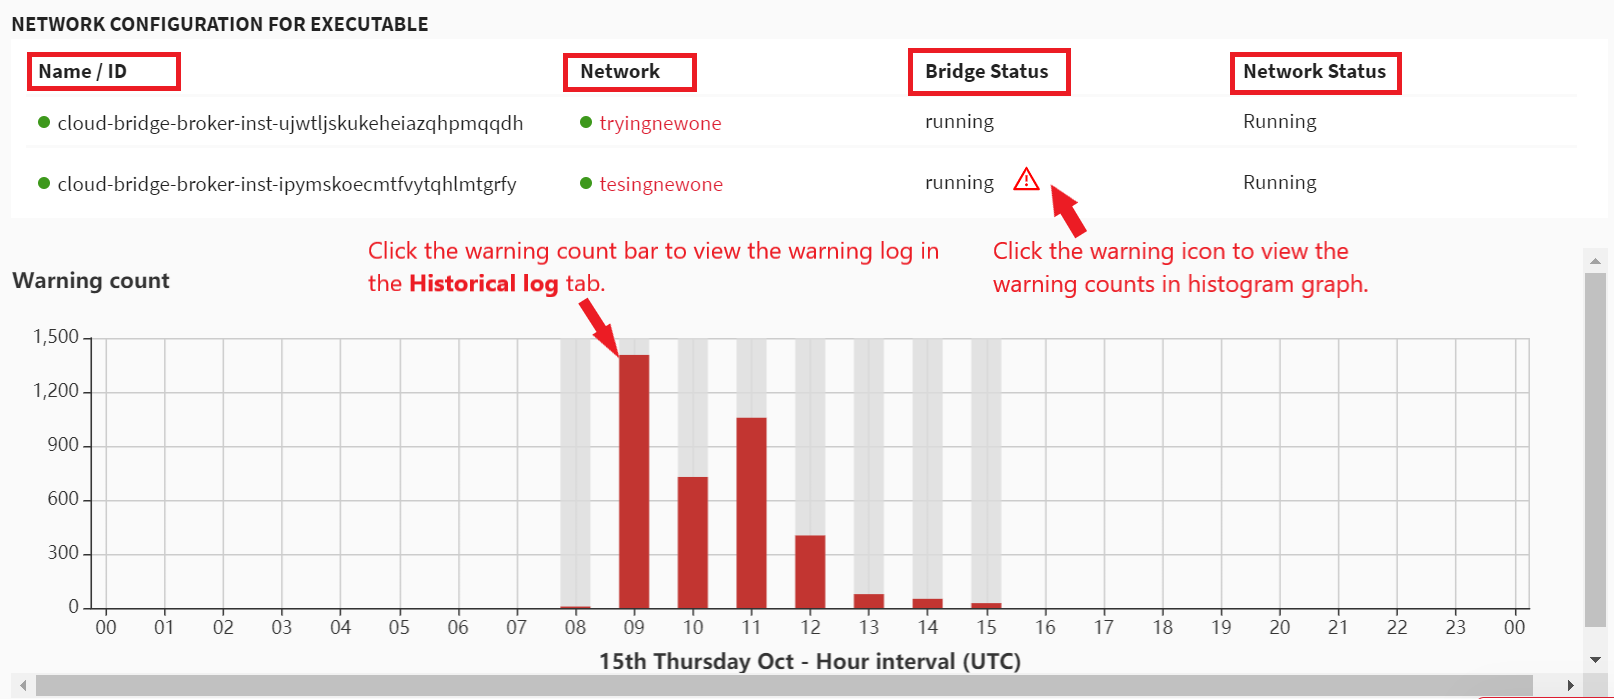
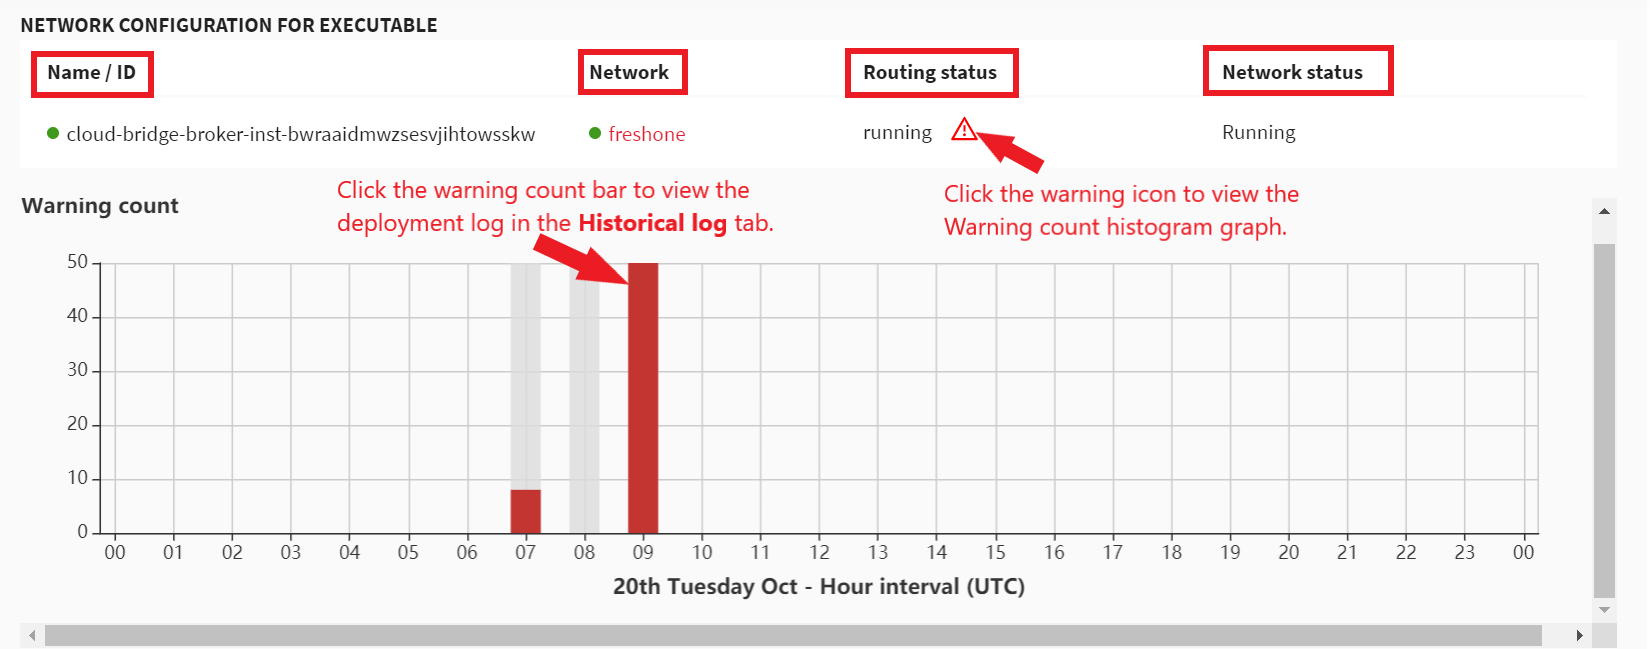
Comments from Amit are fixed

diff --git a/hugo/content/developer-guide/manage-software-cycle/deployments.md b/hugo/content/developer-guide/manage-software-cycle/deployments.md
@@ -100,11 +100,13 @@ and the recommendations you should take:
 | DEP_E161 | docker image not found for executables of components deployed on device | verify that the path of the docker image is valid |
 | DEP_E162 | Validation error. Cases include:<ul><li>Inconsistent values of ROS distro and CPU architecture variables for the device and package being provisioned.</li><li>rapyuta.io docker images not present on docker device.</li></ul> | <ul><li>Create package with appropriate values for ROS distro and CPU architecture variables.</li><li>Onboard the device again.</li></ul> |
 | DEP_E163 | application has stopped and exited unexpectedly, and crashes continuously | debug the application using the corresponding deployment logs |
-| DEP_E171 | same alias name is used by two different deployments under the same routed network. | change the alias name during deployment and ensure that there is no duplication of  alias name under the same routed network. For more information about alias, [click here.](/developer-guide/manage-software-cycle/communication-topologies/ros-support/#ros-environment-aliases-runtime-identity-assignment)</a> |
-| DEP_E172 | compress libraries used by the cloud bridge is missing. | re-onboard the device.</a> |
-| DEP_E173 | Underlying transport libraries used by the cloud bridge components  are missing. | re-onboard the device.</a> |
-| DEP_E174 | multiple components of a package under same routed network expose same ROS service. | do not add multiple deployments with the same ROS service endpoint under the same routed network.</a> |
-| DEP_E175 | python actionlib file is missing. | re-onboard the device.</a> |
+| DEP_E171 | network bridge encountered duplicate alias on the device. | change the alias name during deployment and ensure that there is no duplication of  alias name under the same routed network. For more information about alias, [click here.](/developer-guide/manage-software-cycle/communication-topologies/ros-support/#ros-environment-aliases-runtime-identity-assignment)</a> |
+| DEP_E172 | compression library required for the network bridge is missing on the device. | re-onboard the device.</a> |
+| DEP_E173 | transport libraries required for the network bridge is missing on the device. | re-onboard the device.</a> |
+| DEP_E174 | network bridge on the device encountered multiple ROS service origins. | do not add multiple deployments with the same ROS service endpoint under the same routed network.</a> |
+| DEP_E175 | python actionlib/msgs required for the network bridge is missing on the device. | re-onboard the device.</a> |
+| DEP_E176 | network bridge encountered duplicate alias on the cloud component. | re-onboard the device.</a> |
+| DEP_E177 | network bridge on the cloud component encountered multiple ROS service origins. | re-onboard the device.</a> |
 | DEP_E2xx | internal rapyuta.io error in the components deployed on cloud | report the issue together with the relevant details to the <a href="#" onclick="javascript:FreshWidget.show();">support team</a> |
 | DEP_E3xx | internal rapyuta.io error in the components deployed on a device | report the issue together with the relevant details to the <a href="#" onclick="javascript:FreshWidget.show();">support team</a> |
 | DEP_E4xx | internal rapyuta.io error | report the issue together with the relevant details to the <a href="#" onclick="javascript:FreshWidget.show();">support team</a> |
@@ -168,7 +170,7 @@ The following table displays the field description of the network configuration 
 | ------ | ----------- |
 | Name/ID | Displays a unique name or ID of the cloud bridge component that is generated for a ROS component. |
 | Network | Displays the associated routed network for the component. |
-| Bridge Status | Displays the following cloud bridge statuses of each component for a package. <ul><li>If the cloud bridge is running successfully, then the status becomes **running**.</li><li>If the cloud bridge is running successfully with warnings, then the status becomes **running** with a warning icon. You can click on the warning icon to view the histogram of the warning messages those occured in the last 24 hours. You can also view the historical logs by clicking the warning message count bar in the histogram graph. It takes you to the [hitorical log section](/developer-guide/tooling-automation/logging/deployment-logs/#stdout-logs). You can also view the [live logs](/developer-guide/tooling-automation/logging/deployment-logs/#indexed-logs) of the cloud bridge generated for the ROS components in a deployment.</li><li>If the cloud bridge is failed due to some error, then the status becomes **error**.</li></ul> |
+| Routing Status | Displays the following cloud bridge statuses of each component for a package. <ul><li>If the cloud bridge is running successfully, then the status becomes **running**.</li><li>If the cloud bridge is running successfully with warnings, then the status becomes **running** with a warning icon. You can click on the warning icon to view the histogram of the warning messages those occured in the last 24 hours. You can also view the historical logs by clicking the warning message count bar in the histogram graph. It takes you to the [hitorical log section](/developer-guide/tooling-automation/logging/deployment-logs/#stdout-logs). You can also view the [live logs](/developer-guide/tooling-automation/logging/deployment-logs/#indexed-logs) of the cloud bridge generated for the ROS components in a deployment.</li><li>If the cloud bridge is failed due to some error, then the status becomes **error**.</li></ul> |
 |Network Status | Displays the following routed network statuses of each component for a package. <ul><li>If the routed network is running successfully, then the status becomes **running**.</li><li>If the routed network is failed due to some error, then the status becomes **error**.</li></ul> |
 
 ## Deploying A Package

diff --git a/CHANGELOG.md b/CHANGELOG.md
@@ -1,8 +1,7 @@
 # CHANGELOG
 ## [Unreleased]
 - Explain docker push pull secret
-
-
+- Explain cb error log
 
 ## [2.6.0 - 2020-09-23]
 ### Added
